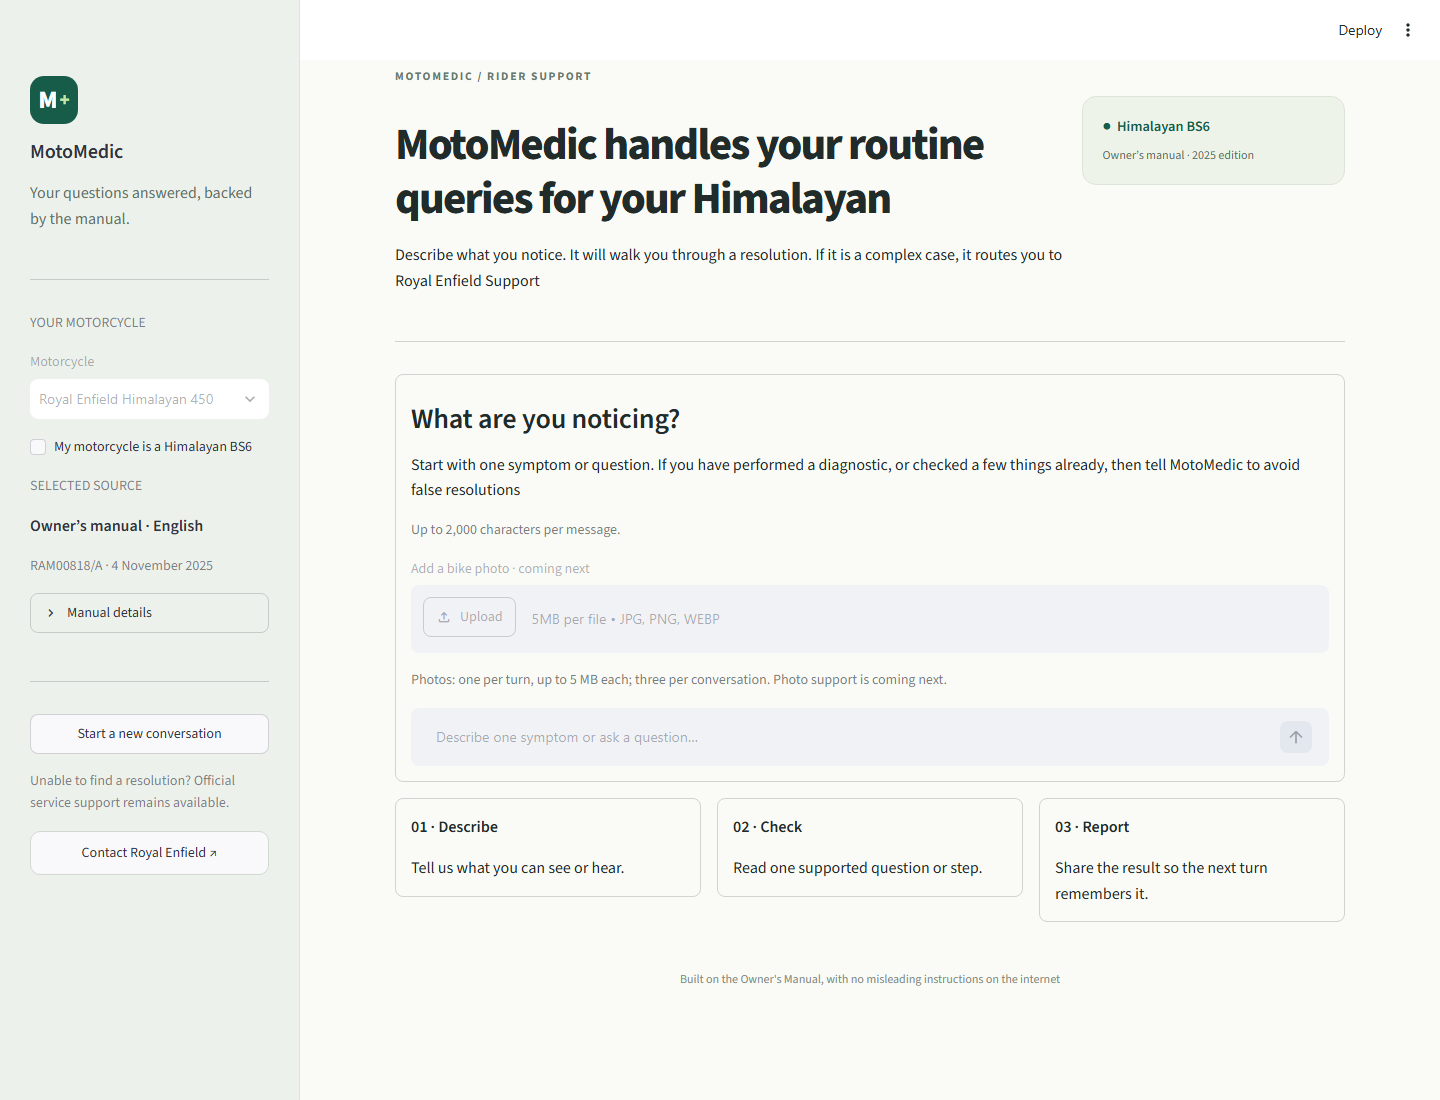
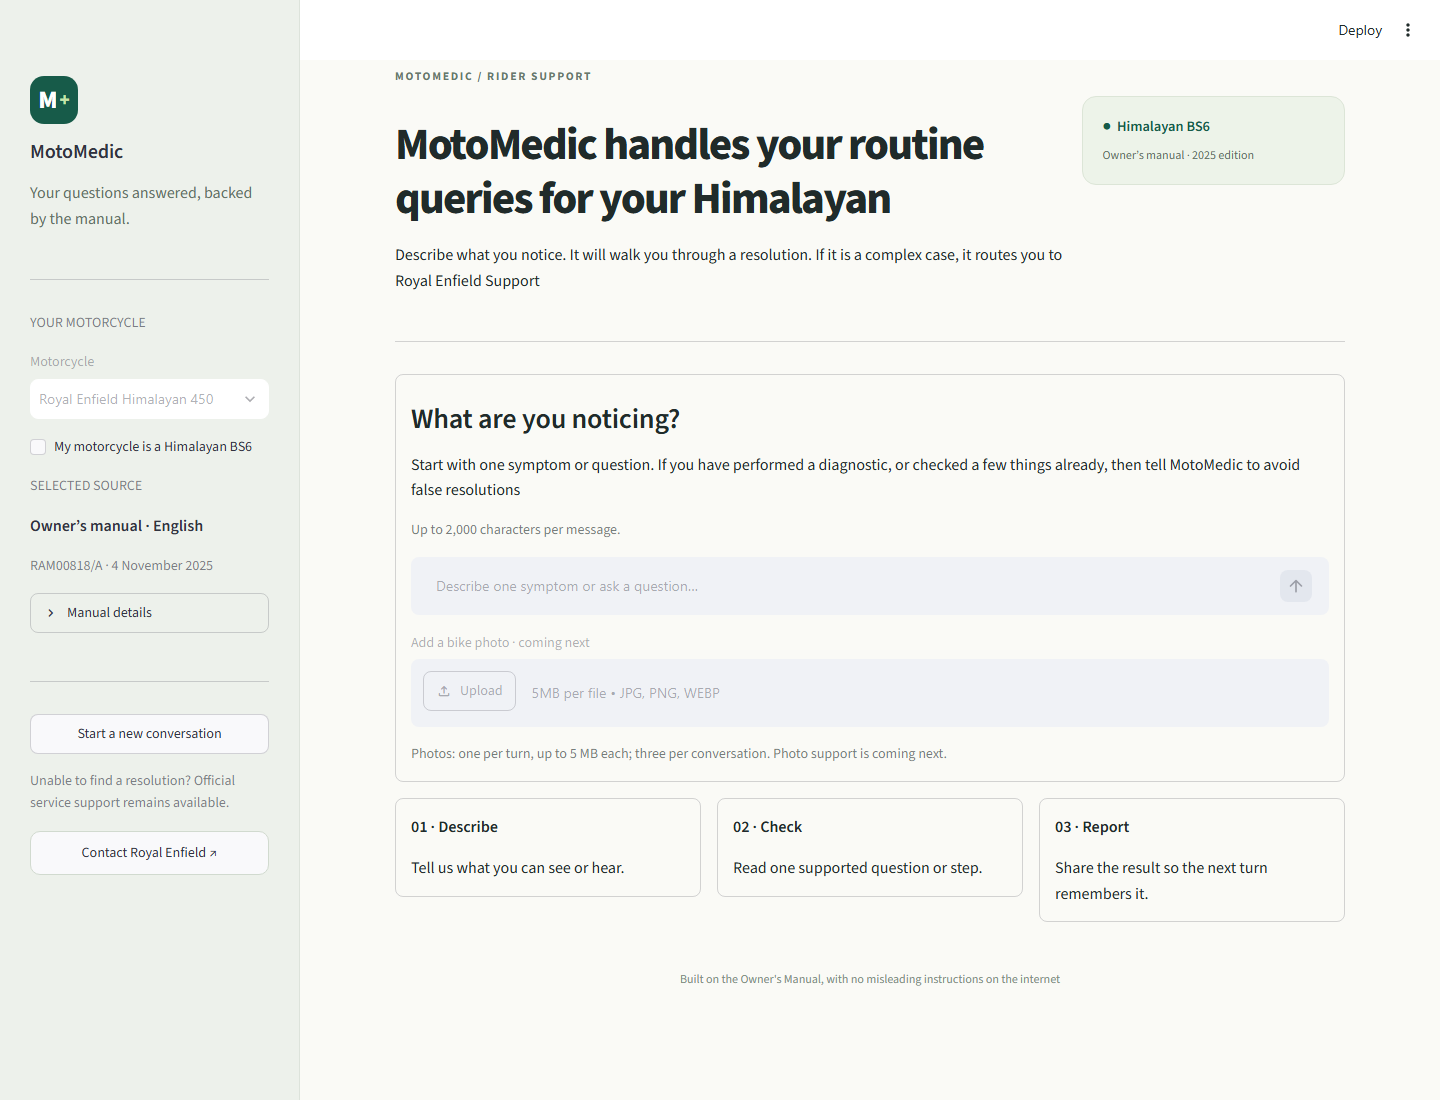
Prioritize text entry and reconcile historical TODO approval statuses

Changed region(s): [[0.2812, 0.6182, 0.6562, 0.7109], [0.2812, 0.4945, 0.5, 0.5873]]

diff --git a/rider_ui/app.py b/rider_ui/app.py
@@ -93,12 +93,12 @@ if not st.session_state.messages:
         st.markdown('### What are you noticing?')
         st.write('Start with one symptom or question. If you have performed a diagnostic, or checked a few things already, then tell MotoMedic to avoid false resolutions')
         st.caption('Up to 2,000 characters per message.')
-        st.file_uploader('Add a bike photo · coming next', type=['jpg', 'jpeg', 'png', 'webp'], accept_multiple_files=False, max_upload_size=5, disabled=True)
-        st.caption('Photos: one per turn, up to 5 MB each; three per conversation. Photo support is coming next.')
         query = st.chat_input('Describe one symptom or ask a question…', key='symptom_input', max_chars=LIMITS.message_characters,
                               disabled=not ready or bool(st.session_state.pending))
         if query and query.strip():
             perform('start', query.strip())
+        st.file_uploader('Add a bike photo · coming next', type=['jpg', 'jpeg', 'png', 'webp'], accept_multiple_files=False, max_upload_size=5, disabled=True)
+        st.caption('Photos: one per turn, up to 5 MB each; three per conversation. Photo support is coming next.')
     cols = st.columns(3)
     for col, title, body in zip(cols, ['01 · Describe', '02 · Check', '03 · Report'],
                                ['Tell us what you can see or hear.', 'Read one supported question or step.', 'Share the result so the next turn remembers it.']):

diff --git a/rider_ui/tests/browser_smoke.py b/rider_ui/tests/browser_smoke.py
@@ -42,6 +42,7 @@ def run():
             assert page.get_by_text('Available topics come from the hosted controller.',exact=False).count() == 0
             assert page.get_by_role('combobox',name='Choose the closest topic').count() == 0
             assert page.get_by_text('Select a topic',exact=True).count() == 0
+            assert page.get_by_role('textbox',name='Describe one symptom or ask a question…').bounding_box()['y'] < page.locator('[data-testid="stFileUploader"]').bounding_box()['y']
             checks.append({'name':'inline_symptom_input_and_no_category_selector','passed':True})
             page.screenshot(path=str(out/'desktop.png'),full_page=True)
             page.get_by_text('My motorcycle is a Himalayan BS6',exact=True).click()
